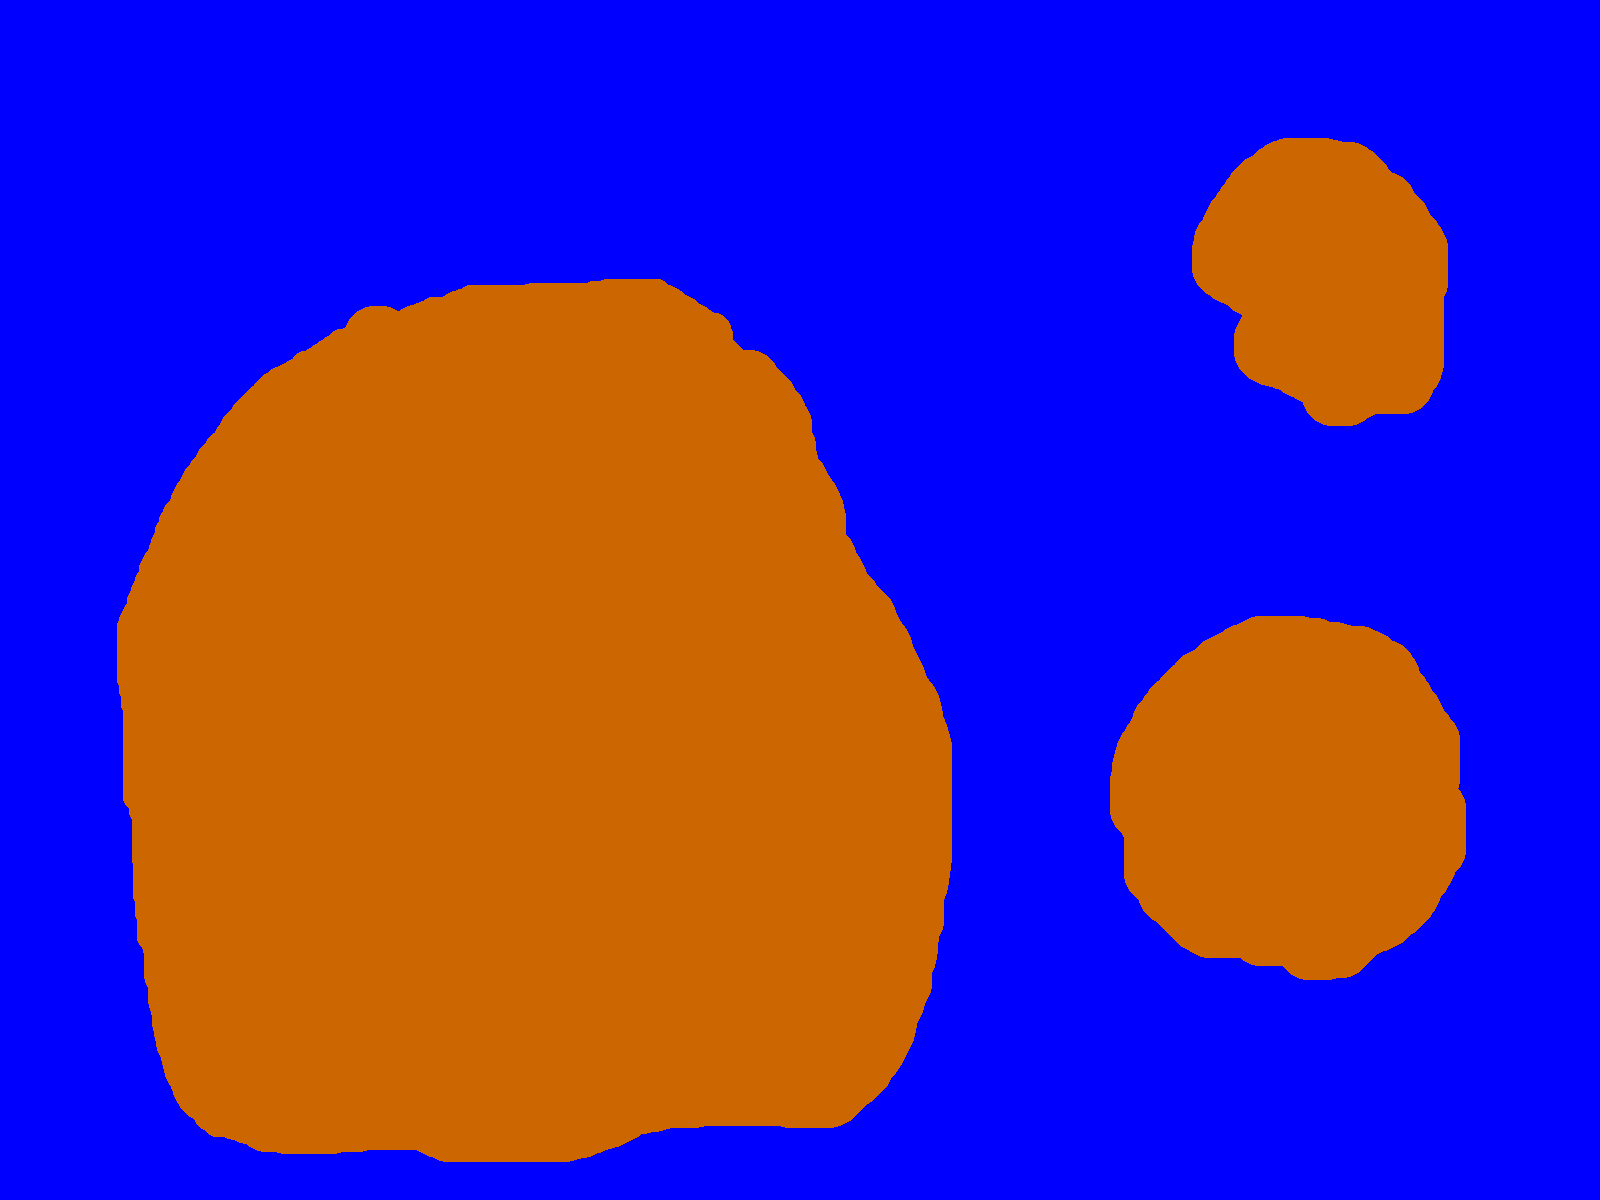
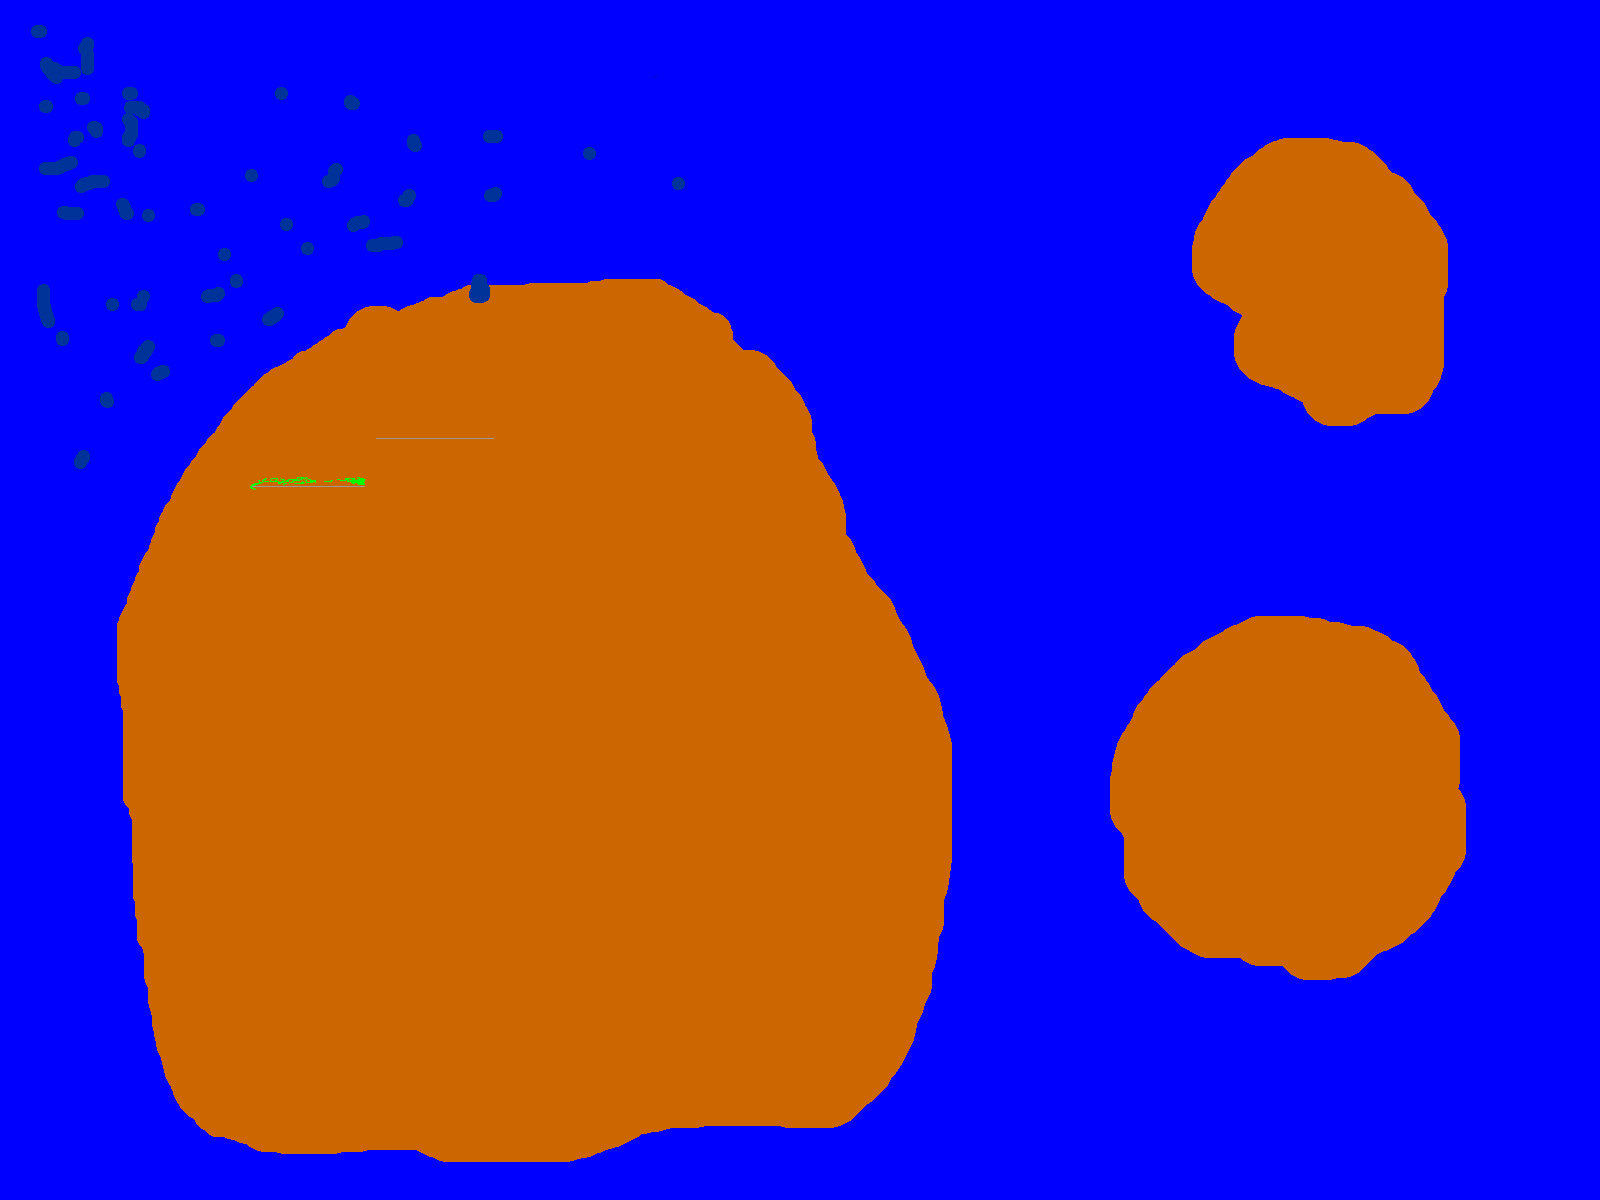
More map tests

diff --git a/games/notAlone/scripts/mapBuilder.js b/games/notAlone/scripts/mapBuilder.js
@@ -3,17 +3,18 @@ class MapBuilder {
     mapConstants = { };
 
     constructor() {
-        //water
-        this._setMapConstants(0, 0, 255, 0, false);
-        //dirt
-        this._setMapConstants(204, 102, 0, 1, false);
+        for (let index = 0; index < MAP_TILES.length; index++) {
+            const element = MAP_TILES[index];
+            this._setMapConstants(element)
+        }
     }
 
     _createKey = (r, g, b) => `${r}, ${g}, ${b}`;
 
-    _setMapConstants(r, g, b, tile, isSolid) {
+    _setMapConstants(element) {
+        let { r, g, b, tileIndex, isSolid } = element;
         isSolid = isSolid || false;
-        this.mapConstants[this._createKey(r, g, b)] = { tile, isSolid };
+        this.mapConstants[this._createKey(r, g, b)] = { tileIndex, isSolid };
     }
 
     _createEmptyMapArray(width, height) {

diff --git a/games/notAlone/scripts/main.js b/games/notAlone/scripts/main.js
@@ -29,7 +29,10 @@ resourceManager.onResourcesLoadedCompleted = function () {
 
     sprites.createCollection("mapTiles", resourceManager.GRAPHICS.tiles.image, [
         {left: 0, top: 0, width: 20, height: 20},
-        {left: 20, top: 0, width: 20, height: 20}
+        {left: 20, top: 0, width: 20, height: 20},
+        {left: 40, top: 0, width: 20, height: 20},
+        {left: 60, top: 0, width: 20, height: 20},
+        {left: 80, top: 0, width: 20, height: 20}
     ]);
 
     MAP_MATRIX = mapBuilder.createMap(resourceManager.GRAPHICS.map.image);

diff --git a/games/notAlone/scripts/backgroundMap.js b/games/notAlone/scripts/backgroundMap.js
@@ -16,7 +16,7 @@ class BackgroundMap extends jsGFwk.VisualGameObject {
             for (let vy = VIEWPORT_Y; vy < (VIEWPORT_Y + VIEWPORT_HEIGHT); vy++) {
                 const item = MAP_MATRIX[vx][vy];
                 
-                context.drawImage(sprites.SPRITES_BAG.mapTiles.sprites[item.tile].image, xp * TILE_SIZE, yp * TILE_SIZE);
+                context.drawImage(sprites.SPRITES_BAG.mapTiles.sprites[item.tileIndex].image, xp * TILE_SIZE, yp * TILE_SIZE);
             
                 yp++;
             }

diff --git a/games/notAlone/scripts/globals.js b/games/notAlone/scripts/globals.js
@@ -7,3 +7,17 @@ const TILE_SIZE = 20;
 let MAP_MATRIX = [];
 let VIEWPORT_X = 0;
 let VIEWPORT_Y = 0;
+
+const MAP_TILES = [
+    //water
+    {r: 0, g: 0, b: 255, tileIndex: 0, isSolid: false},
+    //dark water
+    {r: 0, g: 51, b: 153, tileIndex: 1, isSolid: false},
+    //horizontal road
+    {r: 153, g: 153, b: 153, tileIndex: 2, isSolid: false},
+    //dirt
+    {r: 204, g: 102, b: 0, tileIndex: 3, isSolid: false},
+    //grass
+    {r: 0, g: 255, b: 0, tileIndex: 4, isSolid: false},
+];
+
